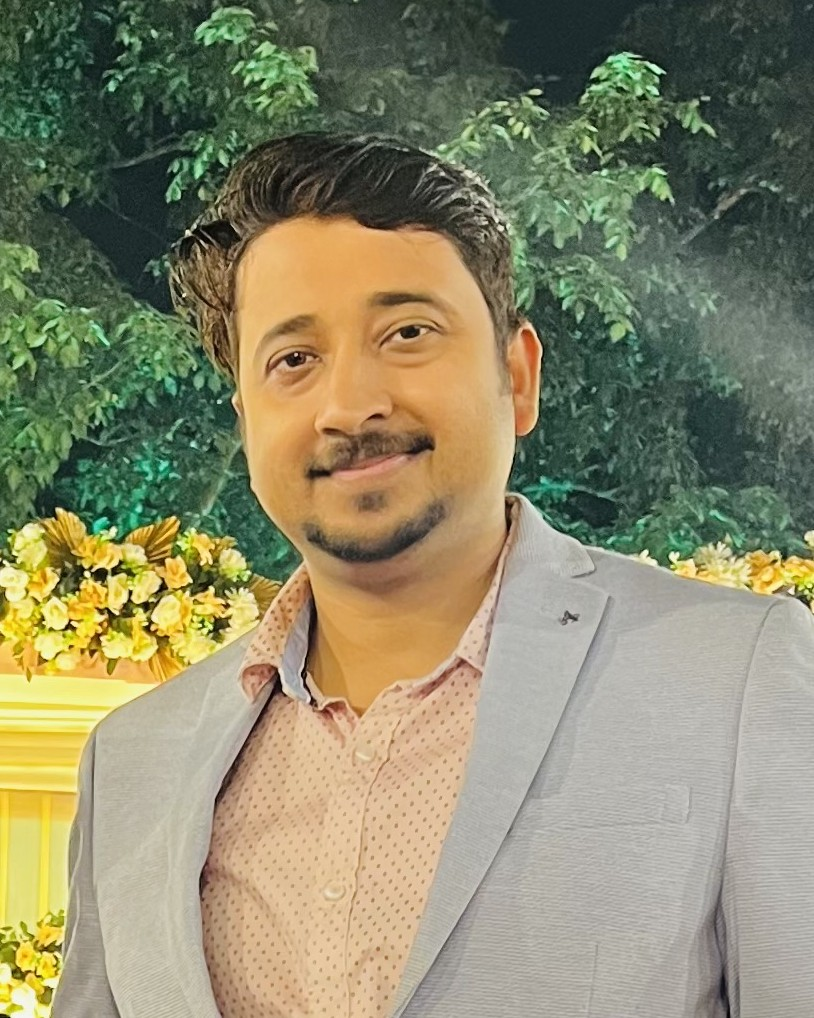
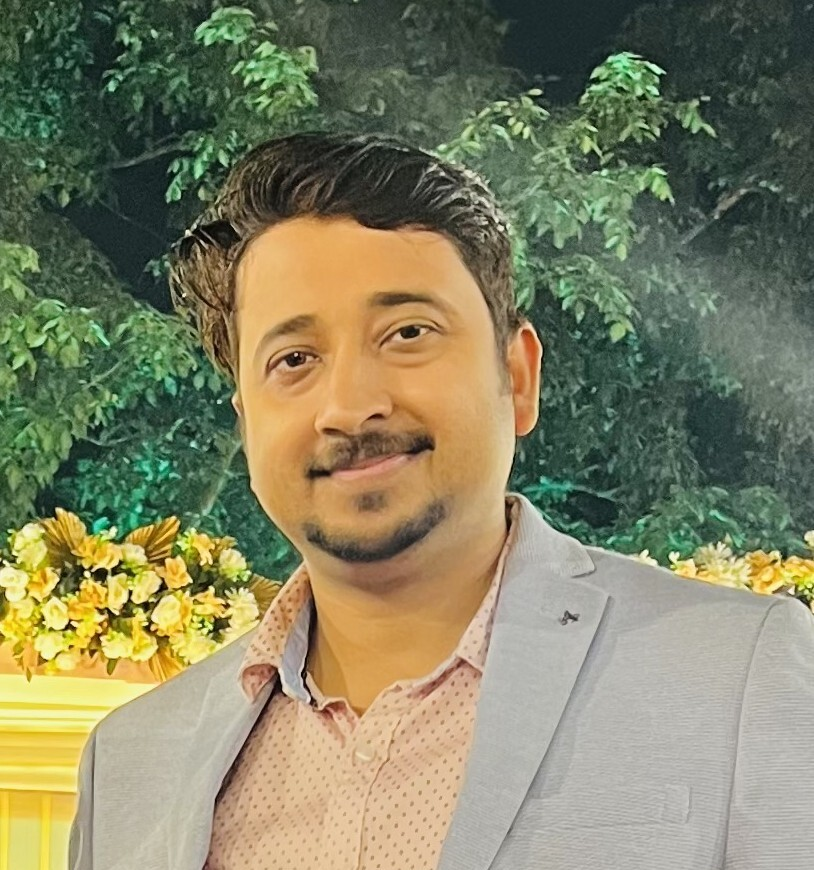
Update Nikumani, Sandeep and Sreejishnu member photos

diff --git a/people.html b/people.html
@@ -189,11 +189,11 @@
         <div class="member-avatar">
           <img
             src="images/members/sreejishnu-p-a.jpg"
-            alt="Sreejishnu P A"
+            alt="Sreejishnu P. A."
             loading="lazy"
             onerror="this.style.display='none'; this.nextElementSibling.style.display='grid';"
           >
-          <span class="member-avatar-fallback">SP</span>
+          <span class="member-avatar-fallback">SPA</span>
         </div>
         <h2 class="member-name"><a href="people/sreejishnu-p-a.html">Sreejishnu P A</a></h2>
         <p class="member-role">Research Scholar</p>
